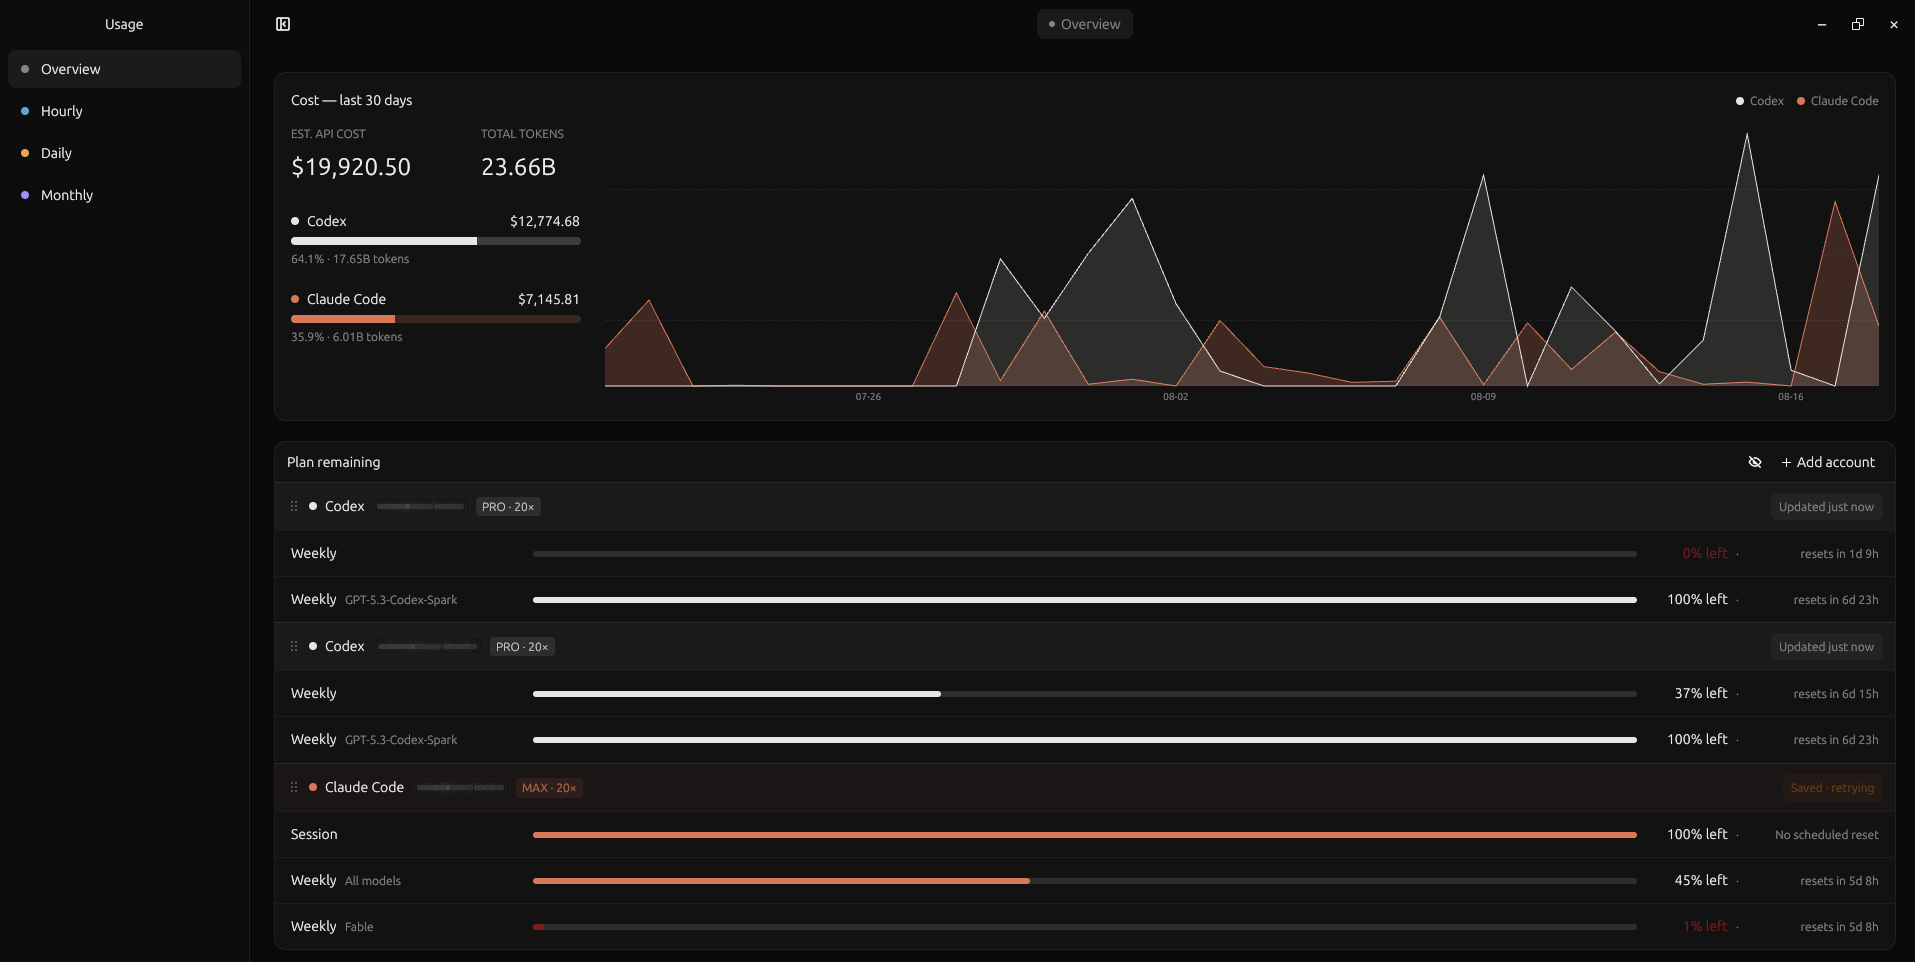
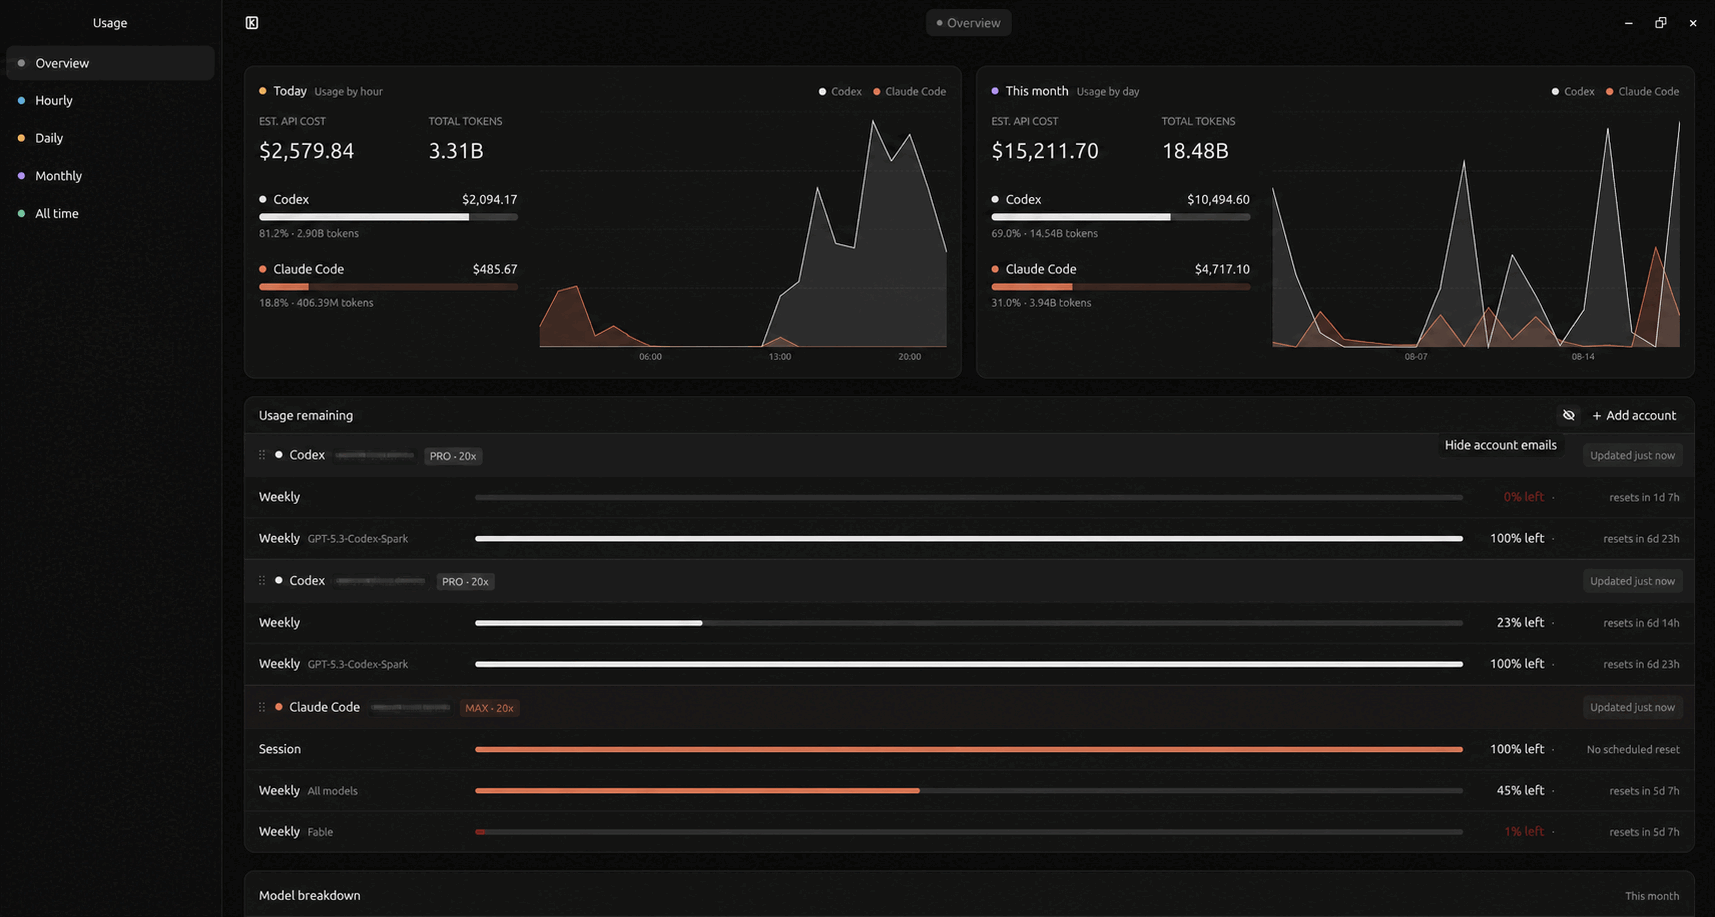
Rename usage limits section

diff --git a/crates/tokscope/src/ui/pages.rs b/crates/tokscope/src/ui/pages.rs
@@ -38,7 +38,7 @@ pub(super) fn overview_page(app: &TokscopeApp, cx: &mut gpui::Context<TokscopeAp
         root = root.child(overview_history_loading(cx));
     }
 
-    root = root.child(account_limits_section(app, "Plan remaining", cx));
+    root = root.child(account_limits_section(app, "Usage remaining", cx));
     if let Some(history) = &app.history {
         root = root.child(breakdown_card(history, app, cx));
     } else if app.history_error.is_none() {

diff --git a/README.md b/README.md
@@ -12,7 +12,7 @@ Tokscope brings Codex and Claude Code usage into one quiet desktop app. See
 token history, estimated API cost, model activity, and plan limits without
 sending your local session history to another service.
 
-![Tokscope overview showing usage trends and remaining plan limits](docs/images/overview.png)
+![Tokscope overview showing usage trends and remaining usage limits](docs/images/overview.png)
 
 ## See everything at a glance
 
